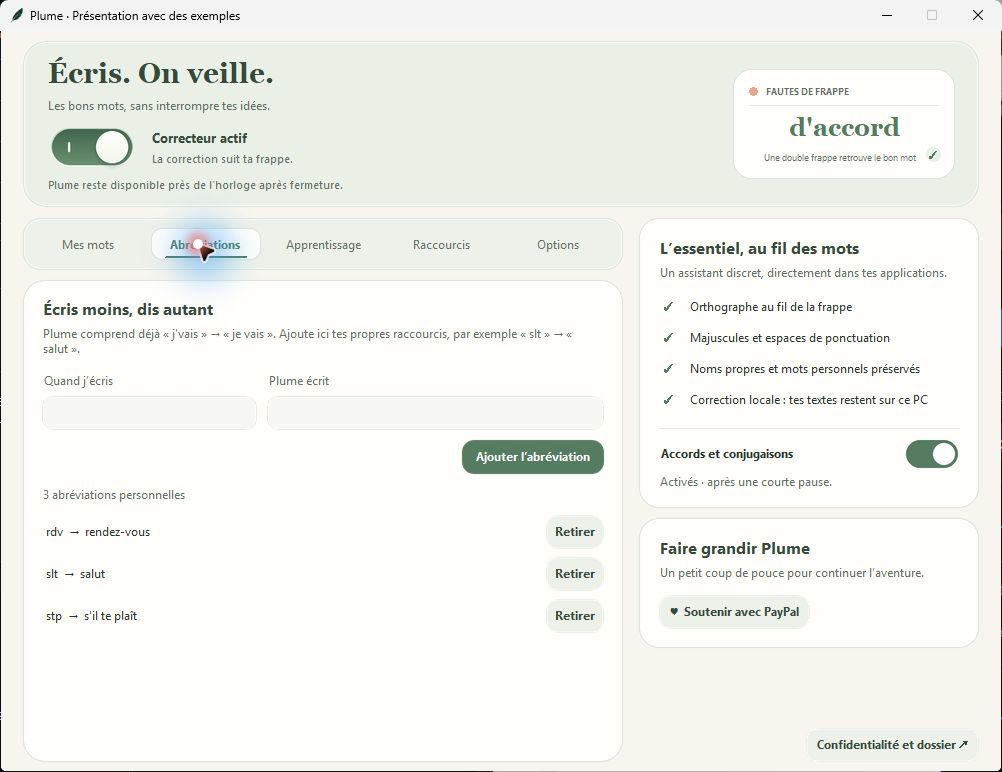
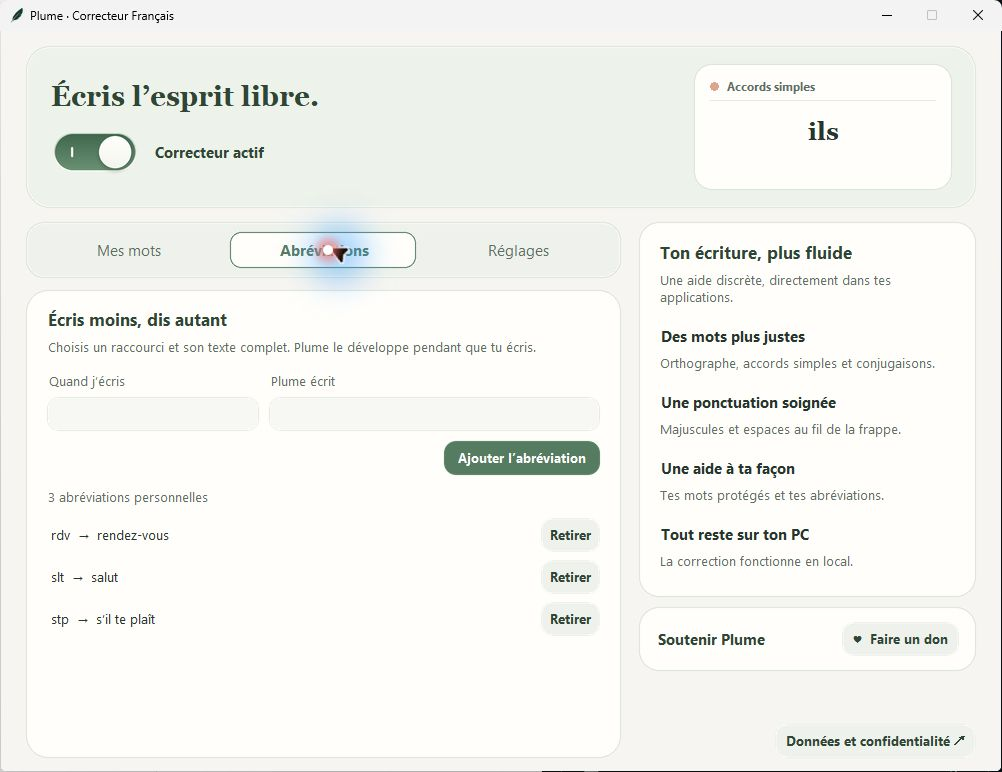
Actualise la presentation de Plume avec les interfaces claire et sombre

diff --git a/README.md b/README.md
@@ -1,24 +1,44 @@
 ![Plume — Tu écris. Plume te donne un coup de pouce. Gratuit, pour Windows, corrections sur ton PC.](assets/plume-banniere.png)
 
 <p align="center">
-  <a href="https://github.com/d4vd97kat/Plume-Downloads/releases/latest/download/Plume-windows-x64.zip"><strong>⬇ Télécharger Plume pour Windows</strong></a>
+  <a href="https://github.com/d4vd97kat/Plume-Downloads/releases/latest/download/Plume-windows-x64.zip"><strong>↓ Télécharger Plume pour Windows</strong></a>
   &nbsp; · &nbsp;
-  <a href="#comment-lutiliser">Comment l'utiliser ?</a>
+  <a href="#bien-démarrer">Bien démarrer</a>
+  &nbsp; · &nbsp;
+  <a href="#une-interface-qui-va-à-lessentiel">Découvrir l'interface</a>
 </p>
 
-## Plume, c'est quoi ?
+## Tu écris. Plume veille.
 
 **Plume est un petit assistant gratuit qui t'aide à écrire en français sur ton ordinateur Windows.**
 
-Tu tapes ton message comme d'habitude. Plume peut corriger des mots mal écrits, ajouter une majuscule ou remettre un espace au bon endroit. Tu peux l'activer ou le mettre en pause avec un interrupteur.
+Tu tapes ton message comme d'habitude. Plume peut corriger un mot mal écrit, ajouter une majuscule ou remettre un espace au bon endroit. Un interrupteur permet de l'activer ou de le mettre en pause.
 
 **Tes textes restent sur ton PC.** Les corrections se font sur ton ordinateur, sans envoyer tes messages sur Internet. Une connexion sert à télécharger Plume et ses mises à jour.
 
-## Regarde ce que Plume peut faire
+## Une interface qui va à l'essentiel
 
-![Exemples animés : bonjor devient bonjour ; ddacord devient d'accord ; les majuscules et les espaces sont ajoutés ; slt devient salut avec une abréviation personnelle ; J'ai mange devient J'ai mangé ; en france devient en France.](assets/plume-en-action.gif)
+### Le mode clair
 
-*Cette animation reprend des exemples préparés, comme la démonstration dans Plume. La correction d'un vrai message dépend aussi des mots autour.*
+![Plume en mode clair : un interrupteur en haut, trois onglets et une liste de mots protégés.](assets/plume-interface-claire.png)
+
+### Le mode sombre
+
+![Plume en mode sombre : les mêmes fonctions sur un fond vert profond, avec des textes clairs.](assets/plume-interface-sombre.png)
+
+*Captures réelles de l'interface 0.1.39 préparée, avec des données d'exemple. La version actuellement proposée au téléchargement est 0.1.26 ; son interface peut donc différer.*
+
+Trois onglets pour trouver facilement ce dont tu as besoin :
+
+| Onglet | À quoi il sert |
+| --- | --- |
+| **Mes mots** | Garder ton pseudo ou un mot personnel tel quel. Retrouver aussi les corrections mémorisées dans **Apprentissage** et les oublier une par une. |
+| **Abréviations** | Choisir tes propres petits mots qui deviennent des mots complets. |
+| **Réglages** | Choisir le thème, le démarrage avec Windows, les mises à jour et tes raccourcis. |
+
+## Les petits coups de pouce de Plume
+
+![Exemples animés : bonjor devient bonjour ; ddacord devient d'accord ; Plume ajoute des majuscules et des espaces ; slt devient salut ; J'ai mange devient J'ai mangé ; en france devient en France.](assets/plume-en-action.gif)
 
 | Tu écris… | Plume peut écrire… | Le petit coup de pouce |
 | --- | --- | --- |
@@ -30,54 +50,53 @@ Tu tapes ton message comme d'habitude. Plume peut corriger des mots mal écrits,
 | `J'ai mange` | `J'ai mangé` | Aider avec certains accords et conjugaisons simples. |
 | `en france` | `en France` | Reconnaître certains noms de lieux. |
 
-Plume progresse encore : il peut se tromper ou laisser passer une faute. Relis tes messages importants.
+*L'animation montre des exemples préparés, comme la démonstration dans Plume. La correction d'un vrai message dépend aussi des mots autour. Plume progresse encore : il peut laisser passer une faute ou se tromper.*
 
-## Une interface facile à comprendre
+### Tes mots, à ta façon
 
-![Interface de Plume : l'interrupteur du correcteur en haut, les onglets au milieu et la liste des mots personnels en dessous.](assets/plume-interface.png)
+Ton pseudo, par exemple **NoobMaster69**, doit rester comme tu l'as choisi. Ajoute-le dans **Mes mots** pour que Plume le garde.
 
-*L'interface de Plume, avec des mots d'exemple.*
+Si tu annules plusieurs fois la même correction, Plume peut te proposer de retenir ton choix. Il ne le mémorise que si tu confirmes. Tu peux ensuite l'oublier dans **Mes mots → Apprentissage**.
 
-- **L'interrupteur** : pour activer le correcteur ou le mettre en pause.
-- **Mes mots** : pour dire « ne change pas ce mot », par exemple ton pseudo.
-- **Abréviations** : pour choisir les petits mots qui deviennent des mots complets.
-- **Apprentissage** : pour retrouver les choix que tu as demandé à Plume de retenir et les retirer un par un.
-- **Raccourcis** : pour choisir les touches qui lancent une action.
-- **Options** : pour régler le démarrage avec Windows et les mises à jour.
+### Écris moins, dis autant
 
-### Tes abréviations, à ta façon
+Tu peux choisir **`slt` → `salut`**, **`stp` → `s'il te plaît`** ou **`rdv` → `rendez-vous`**. C'est toi qui ajoutes ces abréviations.
 
-Tu peux par exemple choisir **`slt` → `salut`**, **`stp` → `s'il te plaît`** ou **`rdv` → `rendez-vous`**. C'est toi qui ajoutes ces raccourcis dans l'onglet Abréviations.
+![L'onglet Abréviations, avec trois exemples personnels : rdv, slt et stp.](assets/plume-abreviations.png)
 
-![L'onglet Abréviations de Plume, avec trois exemples : rdv devient rendez-vous, slt devient salut et stp devient s'il te plaît.](assets/plume-abreviations.png)
+### Des raccourcis que tu choisis
 
-## Comment l'utiliser
+Dans **Réglages → Raccourcis**, clique sur une combinaison, puis presse et relâche les touches que tu veux utiliser. Clique sur **Appliquer** pour garder ton choix. **Par défaut** permet de retrouver les touches proposées au départ.
+
+![Les trois raccourcis visibles : protéger un mot, mettre Plume en pause et annuler la dernière correction.](assets/plume-raccourcis.png)
+
+## Bien démarrer
 
 1. Clique sur **[Télécharger Plume pour Windows](https://github.com/d4vd97kat/Plume-Downloads/releases/latest/download/Plume-windows-x64.zip)**.
-2. Dans le dossier Téléchargements, fais un clic droit sur le fichier ZIP, puis choisis **Extraire tout**. Un ZIP est un paquet qui contient plusieurs fichiers.
+2. Dans le dossier Téléchargements, fais un clic droit sur le ZIP, puis choisis **Extraire tout**. Un ZIP est un paquet qui contient plusieurs fichiers.
 3. Ouvre le dossier extrait. Garde **Plume.exe** et le dossier **_internal** ensemble : Plume a besoin des deux.
 4. Double-clique sur **Plume.exe**. Active l'interrupteur si le correcteur est en pause.
 5. Écris dans une application habituelle. Termine ton mot par un espace ou une ponctuation et laisse une courte pause pour les corrections de phrase.
 
-Fermer la fenêtre peut laisser Plume actif en arrière-plan, selon ton choix dans Options. Tu le retrouves alors près de l'horloge Windows : un clic gauche ouvre l'interface ; un clic droit permet de le mettre en pause ou de le quitter.
+Fermer la fenêtre peut laisser Plume actif en arrière-plan, selon tes réglages. Tu le retrouves près de l'horloge Windows : un clic gauche ouvre l'interface ; un clic droit permet de le mettre en pause ou de le quitter.
 
 Plume est prévu pour **Windows 64 bits**. Les barres d'adresse de Brave, Chrome et Edge sont exclues de la correction automatique.
 
-## Et les mises à jour ?
+## Les mises à jour
 
-La version actuelle est **0.1.26**. Consulte les **[notes de cette version](Notes-de-version-0.1.26.md)**.
+La version actuellement disponible au téléchargement est **0.1.26** : **[voir ses nouveautés](Notes-de-version-0.1.26.md)**. La nouvelle interface présentée ici est préparée pour **0.1.39** : **[découvrir les changements](Notes-de-version-0.1.39.md)**.
 
-Si la recherche automatique est activée dans Options, Plume cherche une nouvelle version à l'ouverture de son interface. Lorsqu'il en trouve une, une annonce apparaît en haut avec **Mettre à jour**. Tu choisis quand l'installer.
+Quand la recherche automatique est activée, Plume cherche une nouvelle version à l'ouverture de son interface. S'il en trouve une, une annonce apparaît en haut. Tu choisis quand la télécharger et l'installer. Tu peux aussi vérifier depuis les réglages.
 
 <details>
-<summary><strong>Tu as déjà une version 0.1.25 ou plus ancienne ?</strong></summary>
+<summary><strong>Tu as une version 0.1.25 ou plus ancienne ?</strong></summary>
 
-L'ancien programme de mise à jour avait un problème. Il faut donc le remplacer **une fois à la main** :
+L'ancien programme de mise à jour avait un problème. Il faut donc remplacer Plume **une fois à la main** :
 
 1. Quitte Plume depuis son icône près de l'horloge.
 2. Télécharge le nouveau ZIP et choisis **Extraire tout**.
 3. Remplace **Plume.exe** et **_internal** dans le dossier où tu utilises déjà Plume.
-4. Relance Plume. L'onglet Options doit indiquer **0.1.26**.
+4. Relance Plume et regarde son numéro de version dans les réglages.
 
 Tes mots, tes abréviations et tes réglages sont enregistrés dans un dossier séparé sur ton PC.
 

diff --git a/Notes-de-version-0.1.39.md b/Notes-de-version-0.1.39.md
@@ -1,0 +1,35 @@
+# Plume 0.1.39 — aperçu de la version préparée
+
+Cette version est compilée localement. Ces notes présentent ses changements ;
+elles n'annoncent pas encore sa disponibilité dans les téléchargements publics.
+
+## Une interface plus simple
+
+- Trois onglets principaux : **Mes mots**, **Abréviations** et **Réglages**.
+- L'apprentissage se trouve dans **Mes mots**. Les raccourcis se trouvent dans **Réglages**.
+- Un interrupteur permet d'activer Plume ou de le mettre en pause.
+- Les modes clair et sombre utilisent des couleurs assorties, avec une bascule plus rapide.
+- La correction de la sélection est masquée dans l'interface et sa démonstration.
+- Les raccourcis visibles permettent de protéger un mot, de mettre Plume en pause et d'annuler la dernière correction.
+
+## Une aide pendant la frappe
+
+Cette version reprend les améliorations locales depuis 0.1.26 : correction de mots,
+ponctuation, majuscules, accords simples, conjugaisons et homophones selon le contexte.
+Les règles de correction fonctionnent sur le PC. Plume peut encore laisser passer
+des fautes ou se tromper ; il ne connaît pas toutes les règles du français.
+
+## Tes habitudes restent disponibles
+
+Les mots protégés, les abréviations, les choix mémorisés et les réglages restent
+enregistrés sur ton ordinateur. Le passage d'un thème à l'autre conserve aussi
+les saisies et les modifications en cours.
+
+## Mettre Plume à jour
+
+Dans **Réglages → Général**, recherche une mise à jour puis choisis de l'installer.
+Une annonce apparaît en haut de l'interface quand Plume détecte une nouvelle version.
+
+Pour remplacer une ancienne version manuellement, quitte Plume depuis son icône
+près de l'horloge, extrais le nouveau ZIP, puis garde **Plume.exe** et **_internal**
+ensemble dans le dossier où tu utilises Plume.
